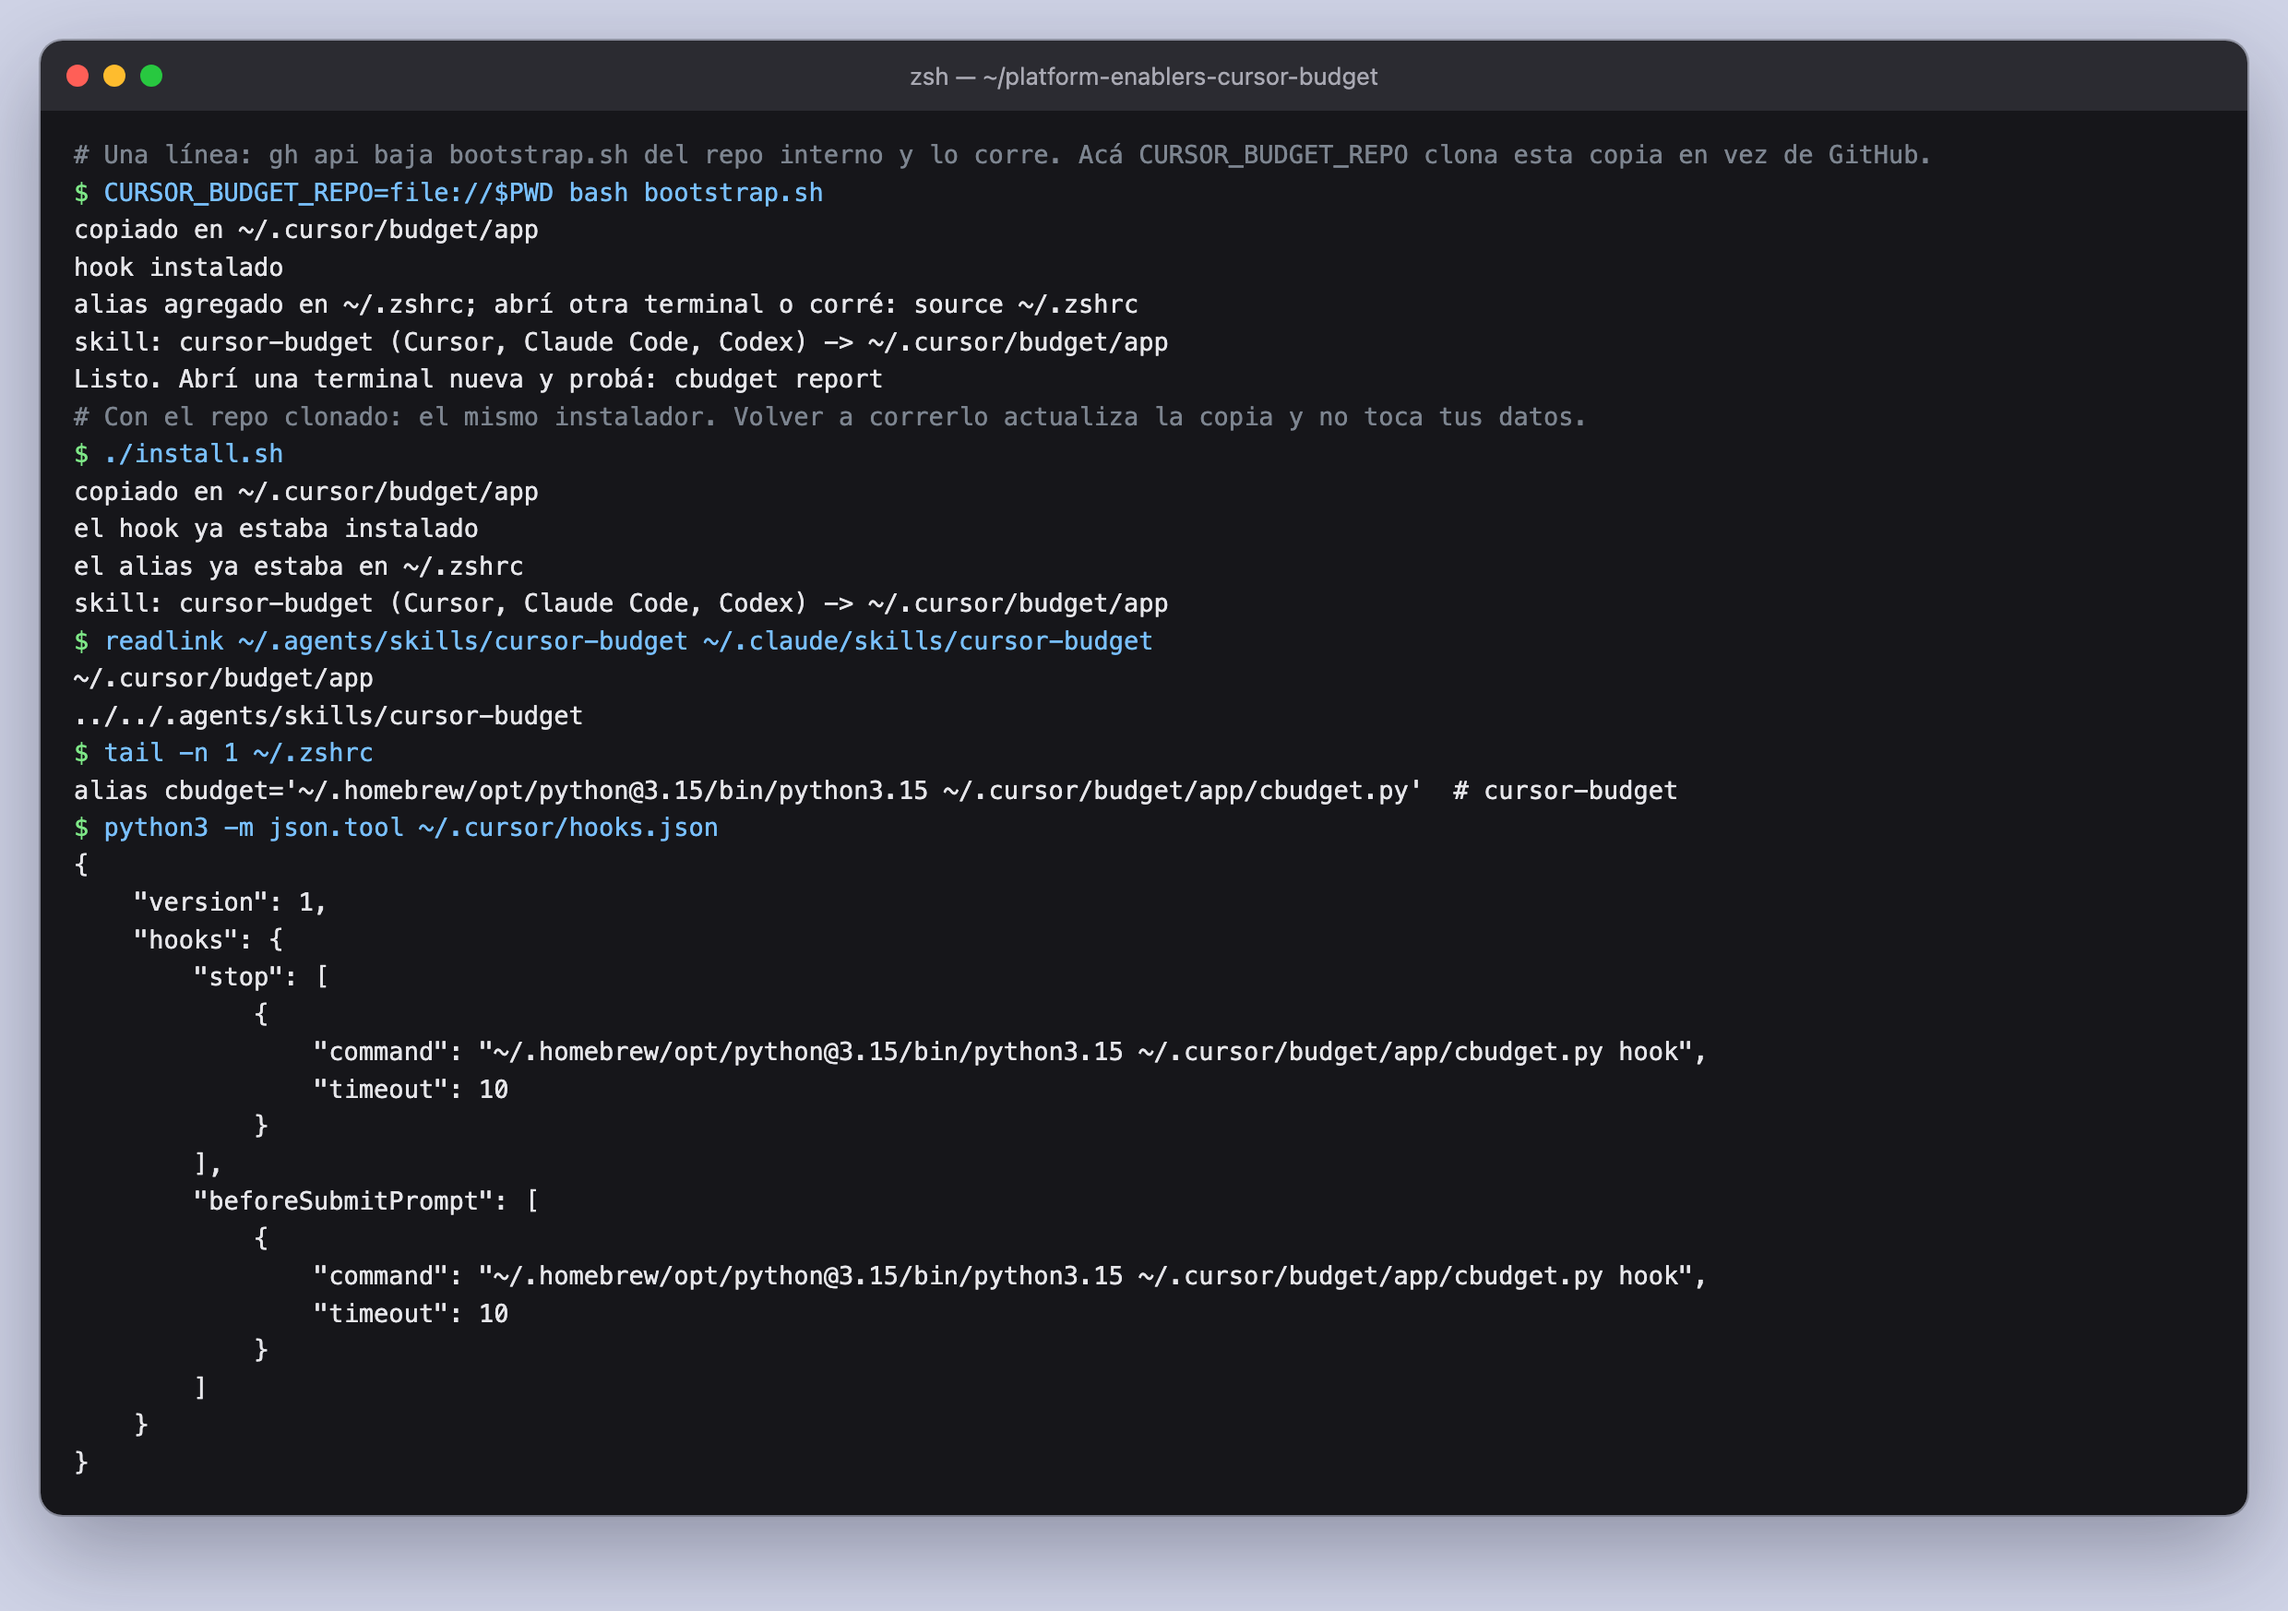
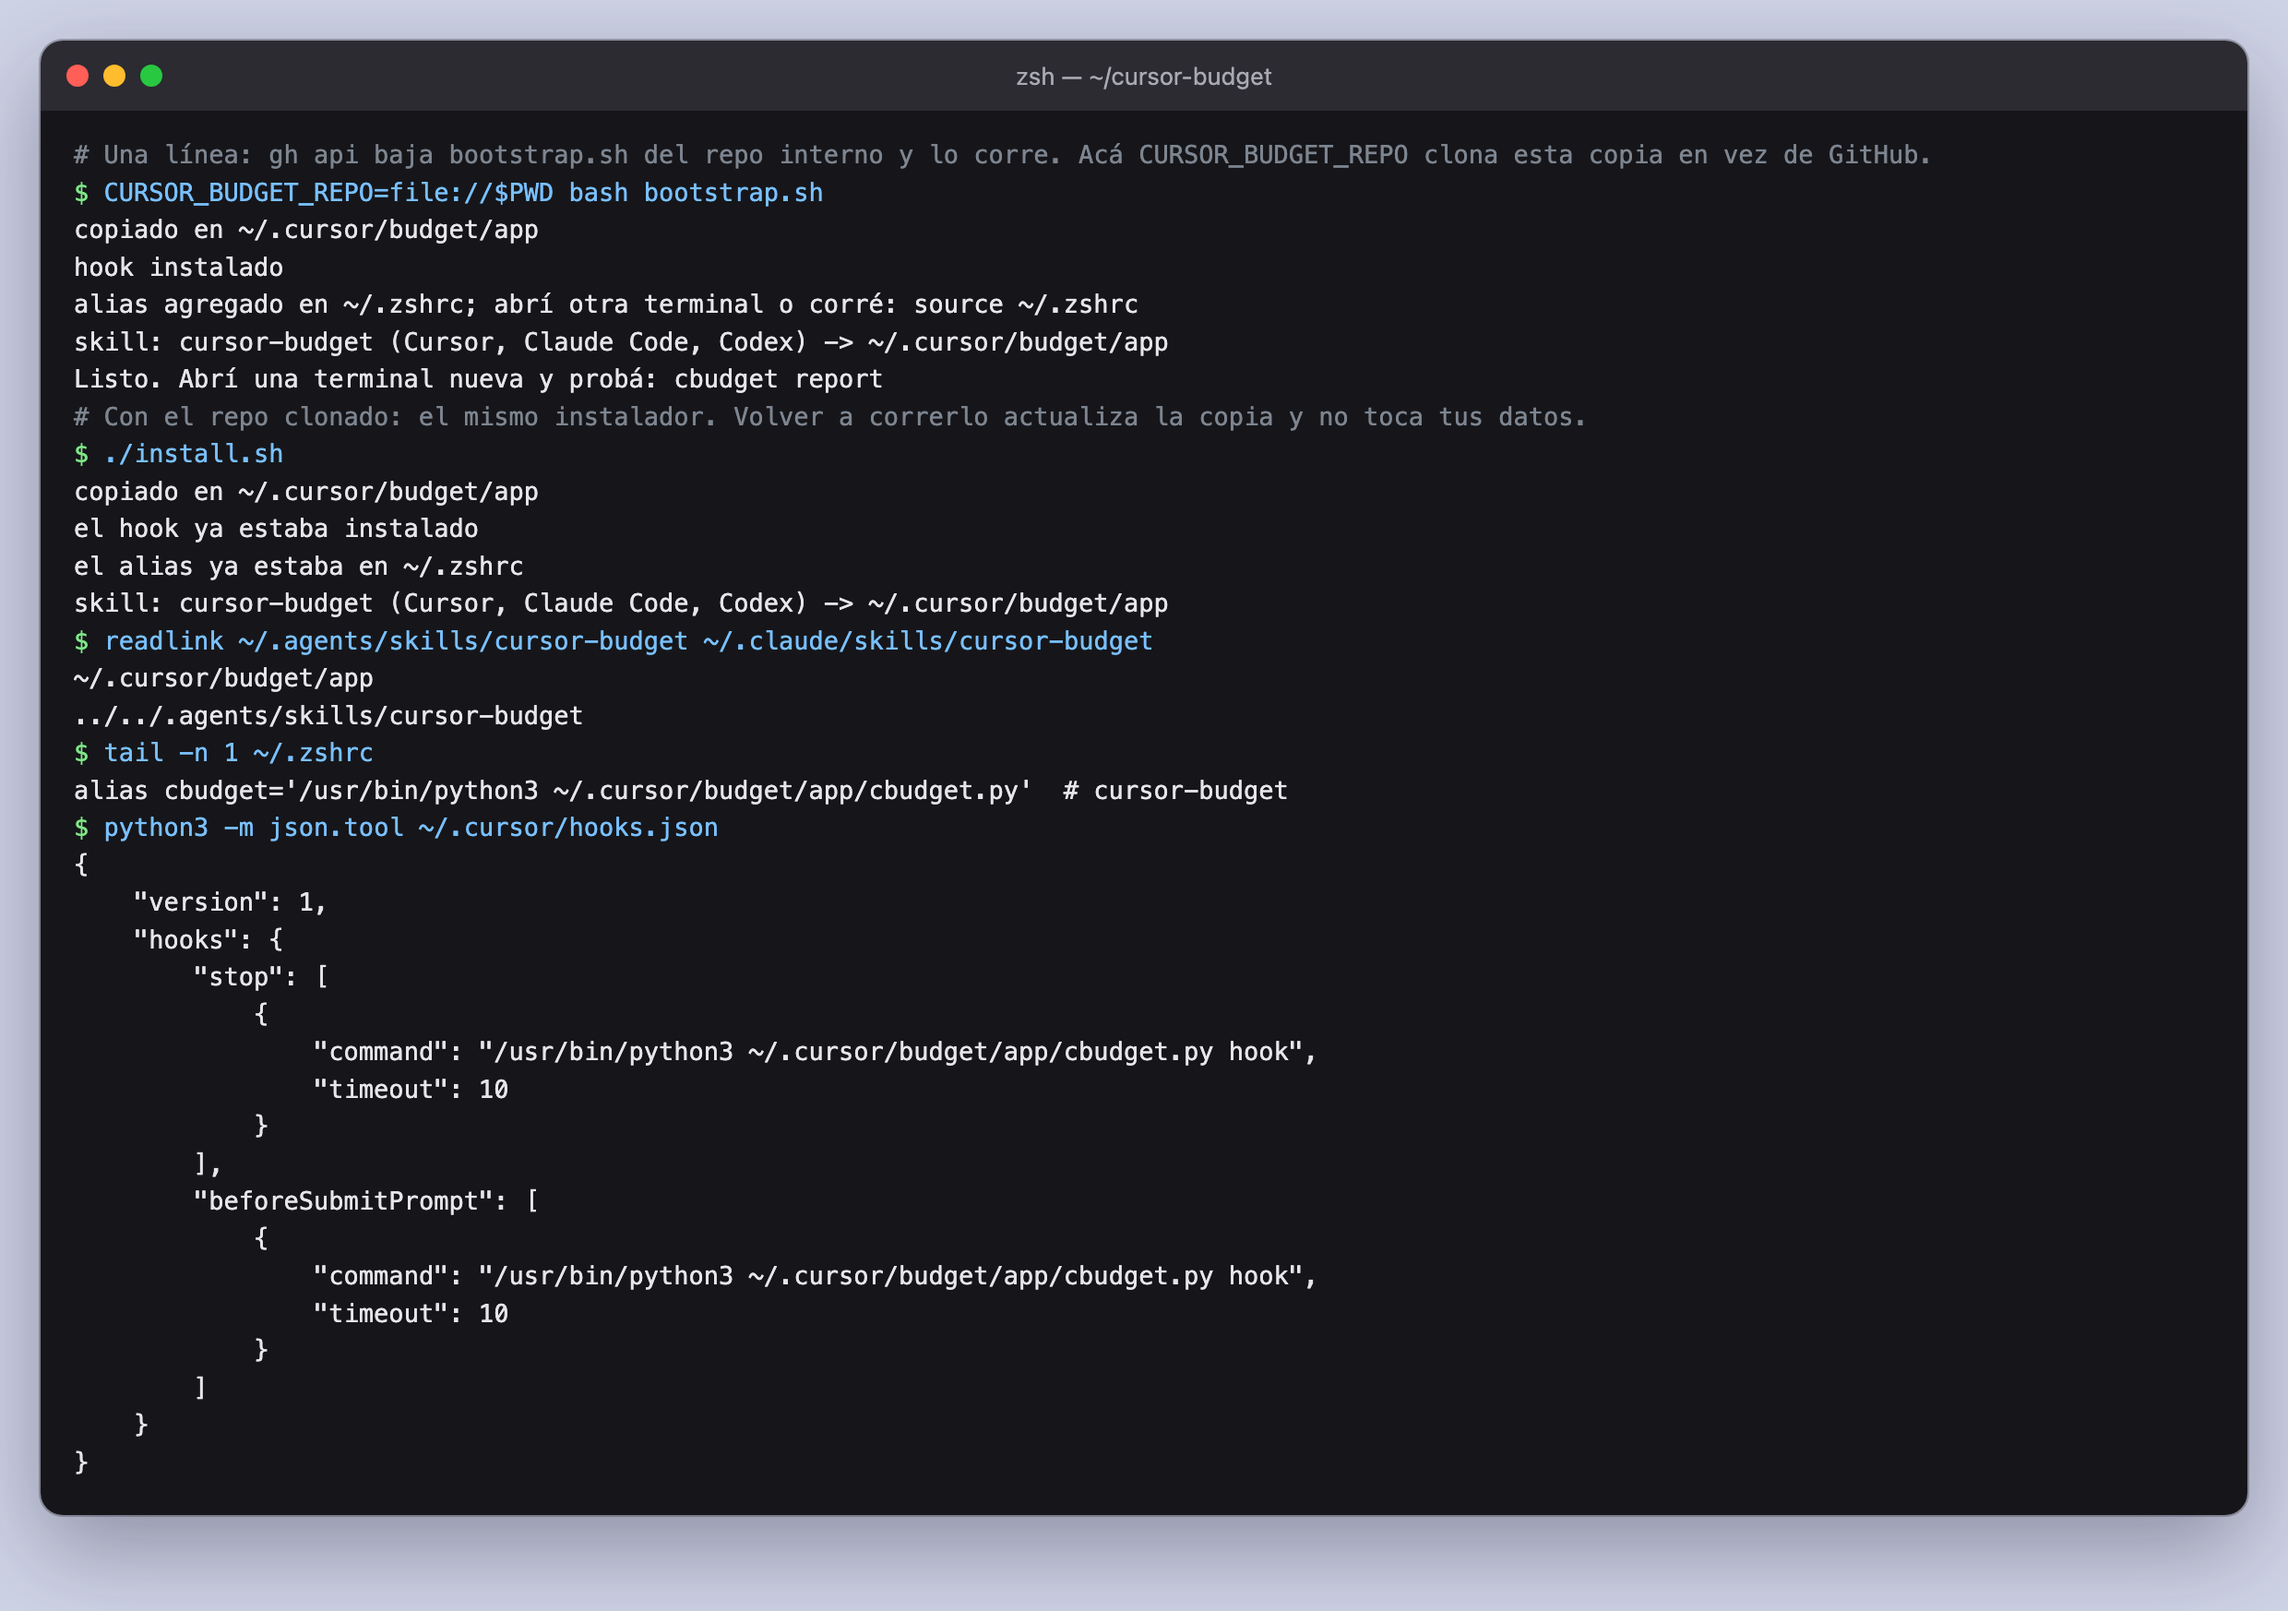
docs: recapture the install with the system python in hooks and alias

diff --git a/docs/img/src/terminal-instalar.html b/docs/img/src/terminal-instalar.html
@@ -22,20 +22,20 @@
 <span class="o">~/.cursor/budget/app</span>
 <span class="o">../../.agents/skills/cursor-budget</span>
 <span class="p">$</span> <span class="k">tail -n 1 ~/.zshrc</span>
-<span class="o">alias cbudget=&#x27;~/.homebrew/opt/python@3.15/bin/python3.15 ~/.cursor/budget/app/cbudget.py&#x27;  # cursor-budget</span>
+<span class="o">alias cbudget=&#x27;/usr/bin/python3 ~/.cursor/budget/app/cbudget.py&#x27;  # cursor-budget</span>
 <span class="p">$</span> <span class="k">python3 -m json.tool ~/.cursor/hooks.json</span>
 <span class="o">{</span>
 <span class="o">    &quot;version&quot;: 1,</span>
 <span class="o">    &quot;hooks&quot;: {</span>
 <span class="o">        &quot;stop&quot;: [</span>
 <span class="o">            {</span>
-<span class="o">                &quot;command&quot;: &quot;~/.homebrew/opt/python@3.15/bin/python3.15 ~/.cursor/budget/app/cbudget.py hook&quot;,</span>
+<span class="o">                &quot;command&quot;: &quot;/usr/bin/python3 ~/.cursor/budget/app/cbudget.py hook&quot;,</span>
 <span class="o">                &quot;timeout&quot;: 10</span>
 <span class="o">            }</span>
 <span class="o">        ],</span>
 <span class="o">        &quot;beforeSubmitPrompt&quot;: [</span>
 <span class="o">            {</span>
-<span class="o">                &quot;command&quot;: &quot;~/.homebrew/opt/python@3.15/bin/python3.15 ~/.cursor/budget/app/cbudget.py hook&quot;,</span>
+<span class="o">                &quot;command&quot;: &quot;/usr/bin/python3 ~/.cursor/budget/app/cbudget.py hook&quot;,</span>
 <span class="o">                &quot;timeout&quot;: 10</span>
 <span class="o">            }</span>
 <span class="o">        ]</span>
